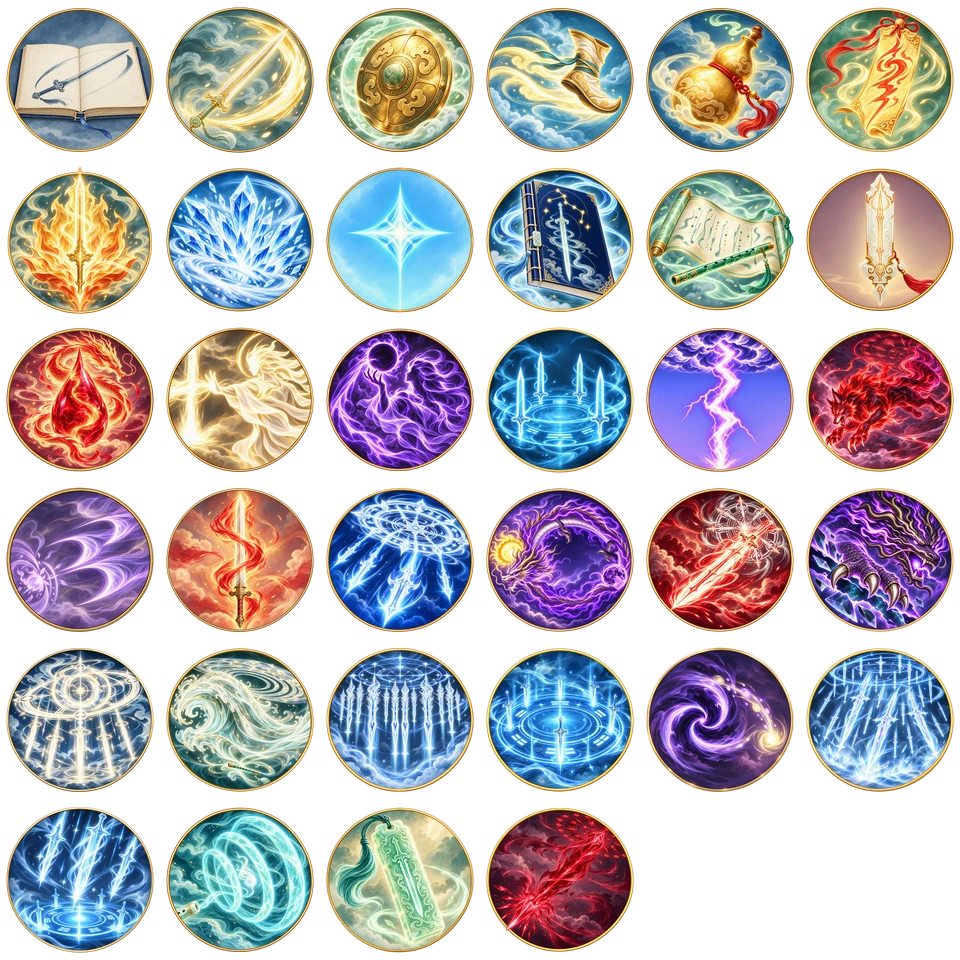
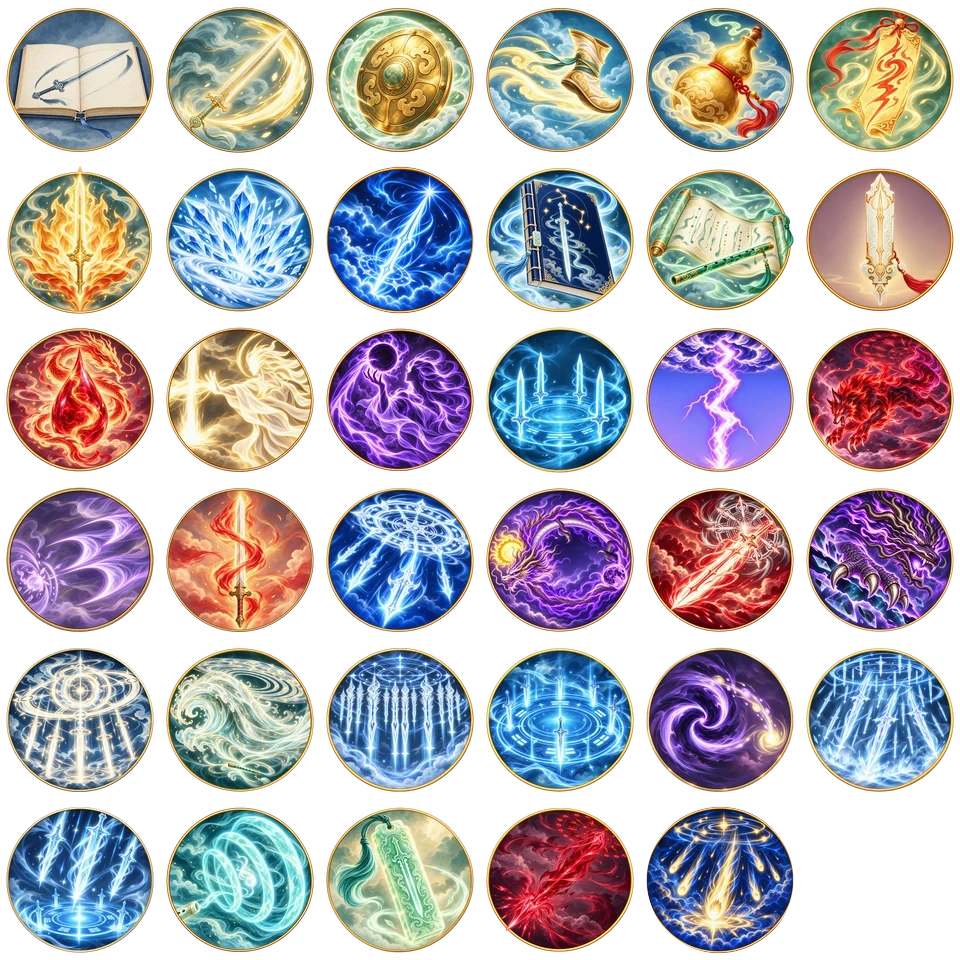
技能图标：点星换 Codex R72 点星C，星落用 R72 星落B（图集第 34 格），去掉代码画的星落
Claude-Session: https://claude.ai/code/session_01MLmwgsq8MPeyfrTaz8BRE2

Changed region(s): [[0.6562, 0.8438, 0.8438, 1.0], [0.3438, 0.1562, 0.5, 0.3438]]

diff --git a/game/ui_icons.js b/game/ui_icons.js
@@ -1,27 +1,10 @@
 // ================= Codex R58 技能/指令图标图集 · 特效对应版（160px × 34，6 列；技能图标按实际特效重画）=================
 (function () {
-  const MAP = {"book": 0, "cmd_atk": 1, "cmd_def": 2, "cmd_flee": 3, "cmd_item": 4, "cmd_skill": 5, "cmd_ult": 6, "daxue": 7, "dianxing": 8, "gongfa_jiuyao": 9, "gongfa_jiuyin": 10, "gongfa_tianjian": 11, "gongfa_xuemai": 12, "guangming": 13, "heian": 14, "huti": 15, "jiutian": 16, "jueying": 17, "luanshen": 18, "ningfeng": 19, "qunxing": 20, "riyue": 21, "shaxing": 22, "shikong": 23, "sun": 24, "tianlai": 25, "tianshu": 26, "tianxuan": 27, "tunshi": 28, "xingluo": 29, "xingyun": 30, "yinbo": 31, "yujian": 32, "zhuihun": 33};
-  const S = 160, COLS = 6, img = new Image(); let ok = false; img.onload = () => ok = true; img.src = 'ui_icons/skills.webp?v=r58fx';
+  const MAP = {"book": 0, "cmd_atk": 1, "cmd_def": 2, "cmd_flee": 3, "cmd_item": 4, "cmd_skill": 5, "cmd_ult": 6, "daxue": 7, "dianxing": 8, "gongfa_jiuyao": 9, "gongfa_jiuyin": 10, "gongfa_tianjian": 11, "gongfa_xuemai": 12, "guangming": 13, "heian": 14, "huti": 15, "jiutian": 16, "jueying": 17, "luanshen": 18, "ningfeng": 19, "qunxing": 20, "riyue": 21, "shaxing": 22, "shikong": 23, "sun": 24, "tianlai": 25, "tianshu": 26, "tianxuan": 27, "tunshi": 28, "xingluo": 29, "xingyun": 30, "yinbo": 31, "yujian": 32, "zhuihun": 33, "xingluo2": 34};   // R72：点星(8) 换 Codex 点星C，星落(34) 用 Codex 星落B
+  const S = 160, COLS = 6, img = new Image(); let ok = false; img.onload = () => ok = true; img.src = 'ui_icons/skills.webp?v=r72';
 
-  // 「星落」：Codex 图标套里还没有，先按同一徽章规格（512 画布、约 470 圆徽章、细金边）用代码画：夜空里三道金色星光坠地，落点炸开星芒
+  // 「星落」已有 Codex 正式图标（R72 星落B，图集第 34 格），原来的代码画版去掉
   const EXTRA = {};
-  { const N = 160, cv = document.createElement('canvas'); cv.width = cv.height = N; const g = cv.getContext('2d'), R = N * 235 / 512, c = N / 2;
-    const bg = g.createRadialGradient(c, c * .8, 4, c, c, R); bg.addColorStop(0, '#2b4f8f'); bg.addColorStop(.7, '#132a55'); bg.addColorStop(1, '#0a1530');
-    g.save(); g.beginPath(); g.arc(c, c, R, 0, 7); g.fillStyle = bg; g.fill(); g.clip();
-    for (let i = 0; i < 26; i++) { const x = (Math.sin(i * 91.7) * .5 + .5) * N, y = (Math.sin(i * 37.3) * .5 + .5) * N * .7; g.fillStyle = `rgba(220,235,255,${.35 + (i % 3) * .2})`; g.fillRect(x, y, 1.4, 1.4); }
-    // 地面法阵弧
-    g.strokeStyle = 'rgba(255,214,120,.55)'; g.lineWidth = 2; g.beginPath(); g.ellipse(c, c + R * .62, R * .78, R * .2, 0, 0, 7); g.stroke();
-    g.strokeStyle = 'rgba(255,214,120,.3)'; g.lineWidth = 1.2; g.beginPath(); g.ellipse(c, c + R * .62, R * .55, R * .13, 0, 0, 7); g.stroke();
-    g.globalCompositeOperation = 'lighter';
-    for (const [sx, sy, ex, ey, w] of [[c - R * .95, c - R * .95, c - R * .28, c + R * .55, 7], [c - R * .2, c - R * 1.1, c + R * .12, c + R * .6, 9], [c + R * .45, c - R * 1.0, c + R * .55, c + R * .5, 6]]) {
-      const gr = g.createLinearGradient(sx, sy, ex, ey); gr.addColorStop(0, 'rgba(255,220,140,0)'); gr.addColorStop(.75, 'rgba(255,226,150,.75)'); gr.addColorStop(1, 'rgba(255,250,225,1)');
-      g.strokeStyle = gr; g.lineCap = 'round'; g.lineWidth = w; g.beginPath(); g.moveTo(sx, sy); g.lineTo(ex, ey); g.stroke();
-      const hg = g.createRadialGradient(ex, ey, 0, ex, ey, w * 3.4); hg.addColorStop(0, 'rgba(255,255,240,1)'); hg.addColorStop(.35, 'rgba(255,214,120,.8)'); hg.addColorStop(1, 'rgba(255,180,80,0)'); g.fillStyle = hg; g.beginPath(); g.arc(ex, ey, w * 3.4, 0, 7); g.fill();
-      g.fillStyle = 'rgba(255,250,230,.95)'; g.beginPath(); for (let k = 0; k < 8; k++) { const a = k * Math.PI / 4, rr = k % 2 ? w * .55 : w * 2.2; g.lineTo(ex + Math.cos(a) * rr, ey + Math.sin(a) * rr); } g.closePath(); g.fill(); }
-    g.restore();
-    g.lineWidth = N * 7 / 512 * 2; g.strokeStyle = '#d9b46a'; g.beginPath(); g.arc(c, c, R, 0, 7); g.stroke();
-    g.lineWidth = 1; g.strokeStyle = 'rgba(255,236,190,.8)'; g.beginPath(); g.arc(c, c, R - 3, 0, 7); g.stroke();
-    EXTRA.xingluo2 = cv; }
   // 战斗技能 id → 图标名（id 和图标名不一样的几个）
   const ALIAS = { pojun: 'tianxuan', tanlang: 'zhuihun' };
   window.UI_ICONS = {
